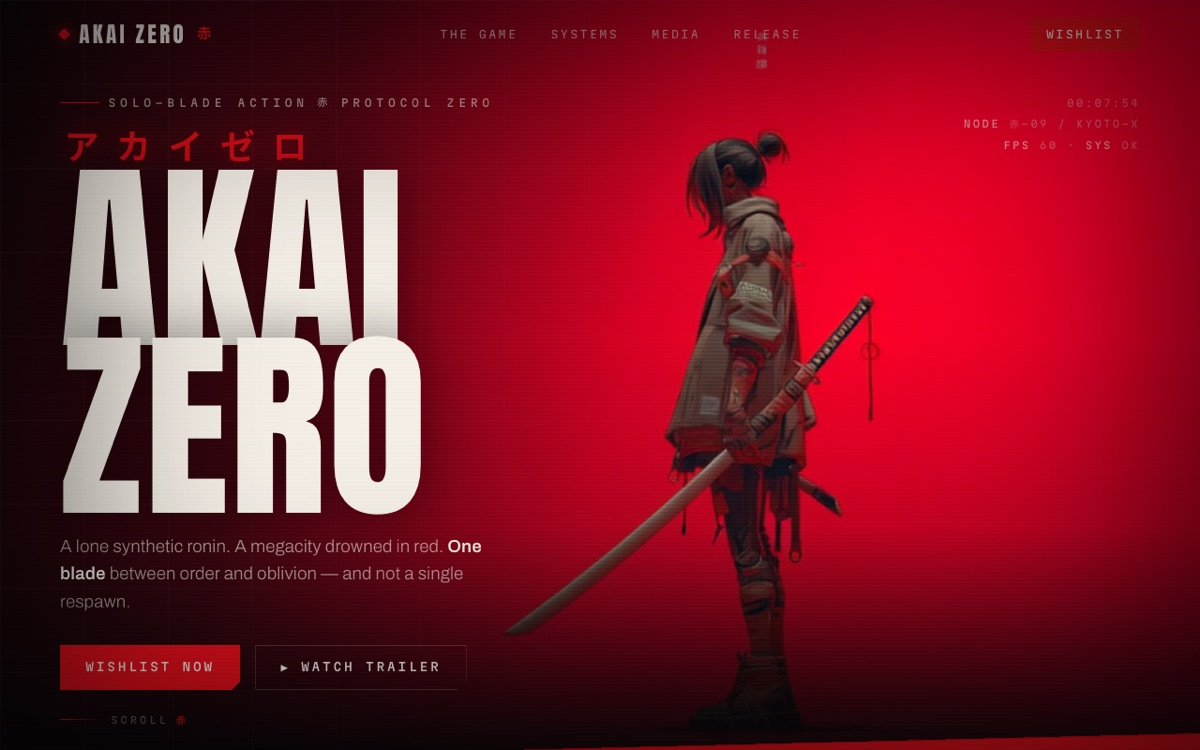
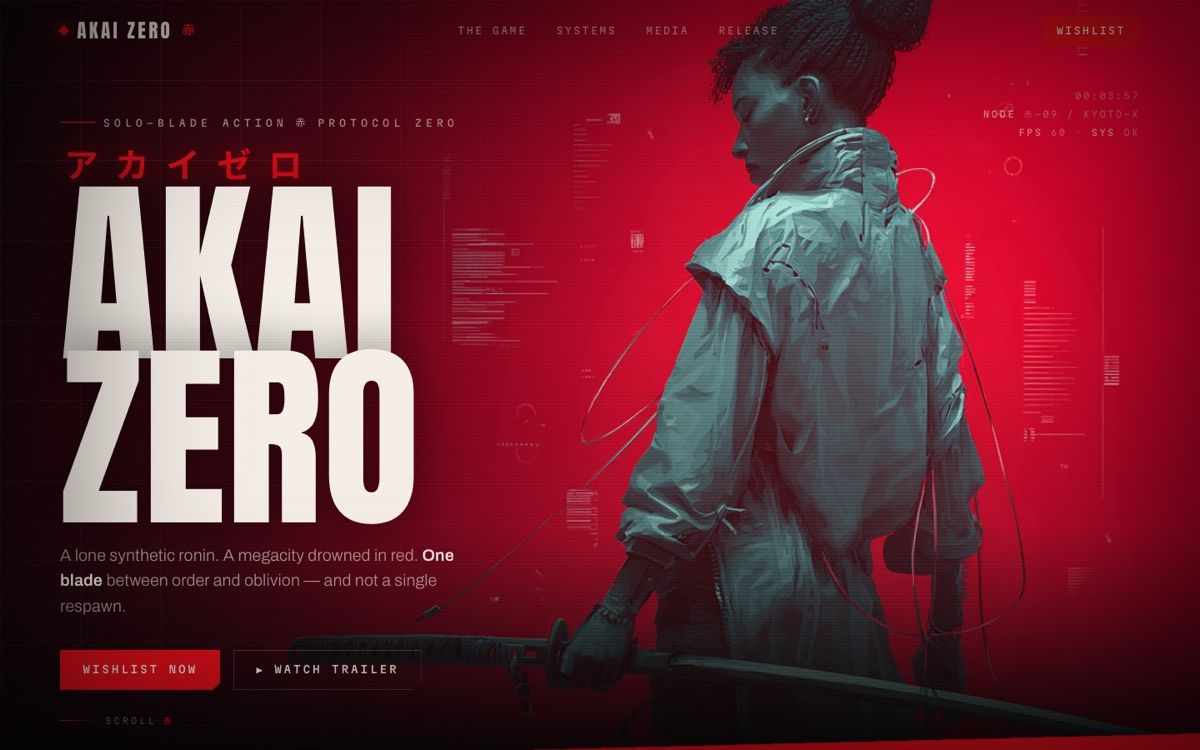
Refresh gallery preview screenshots and fix AKAI ZERO card
Updated all 4 hero screenshots to current site designs. Fixed AKAI ZERO
card to point to akai.carrierpigeonai.dev and removed stale video mention.

diff --git a/app.js b/app.js
@@ -389,7 +389,7 @@ const PROJECTS = [
   { id: '001', name: 'AAVA Rescue',  role: 'Website',  desc: 'Marketing site and donation flow for an animal rescue org. Built in a day, live the same week.',  href: 'https://aavarescue.com', preview: '/aava-preview.jpg' },
   { id: '002', name: 'Cocodrie',      role: 'Mockup',   desc: 'Concept site for a modern Cajun fine-dining restaurant. Full hero treatment, editorial typography, dark and rich.',  href: 'https://cocodrie.carrierpigeonai.dev', preview: '/cocodrie-preview.jpg' },
   { id: '003', name: 'Vermilion Athletics', role: 'Mockup', desc: 'Concept site for a Lafayette personal-training studio. Angular industrial design, a sunrise-run hero, and a built-in member-app mockup.', href: 'https://vermilion.carrierpigeonai.dev', preview: '/vermilion-preview.jpg' },
-  { id: '004', name: 'AKAI ZERO', role: 'Mockup', desc: 'Concept landing page for a fictional cyberpunk action game. A cinematic full-screen video hero, oversized type, angled panels, and a sharp, motion-led red design.', href: 'https://sz.carrierpigeonai.dev', preview: '/akai-zero-preview.jpg' },
+  { id: '004', name: 'AKAI ZERO', role: 'Mockup', desc: 'Concept landing page for a fictional cyberpunk action game. A cinematic full-screen hero, oversized type, angled panels, and a sharp, motion-led red design.', href: 'https://akai.carrierpigeonai.dev', preview: '/akai-zero-preview.jpg' },
 ];
 
 function WorkCard({ id, name, role, desc, href, preview }) {
